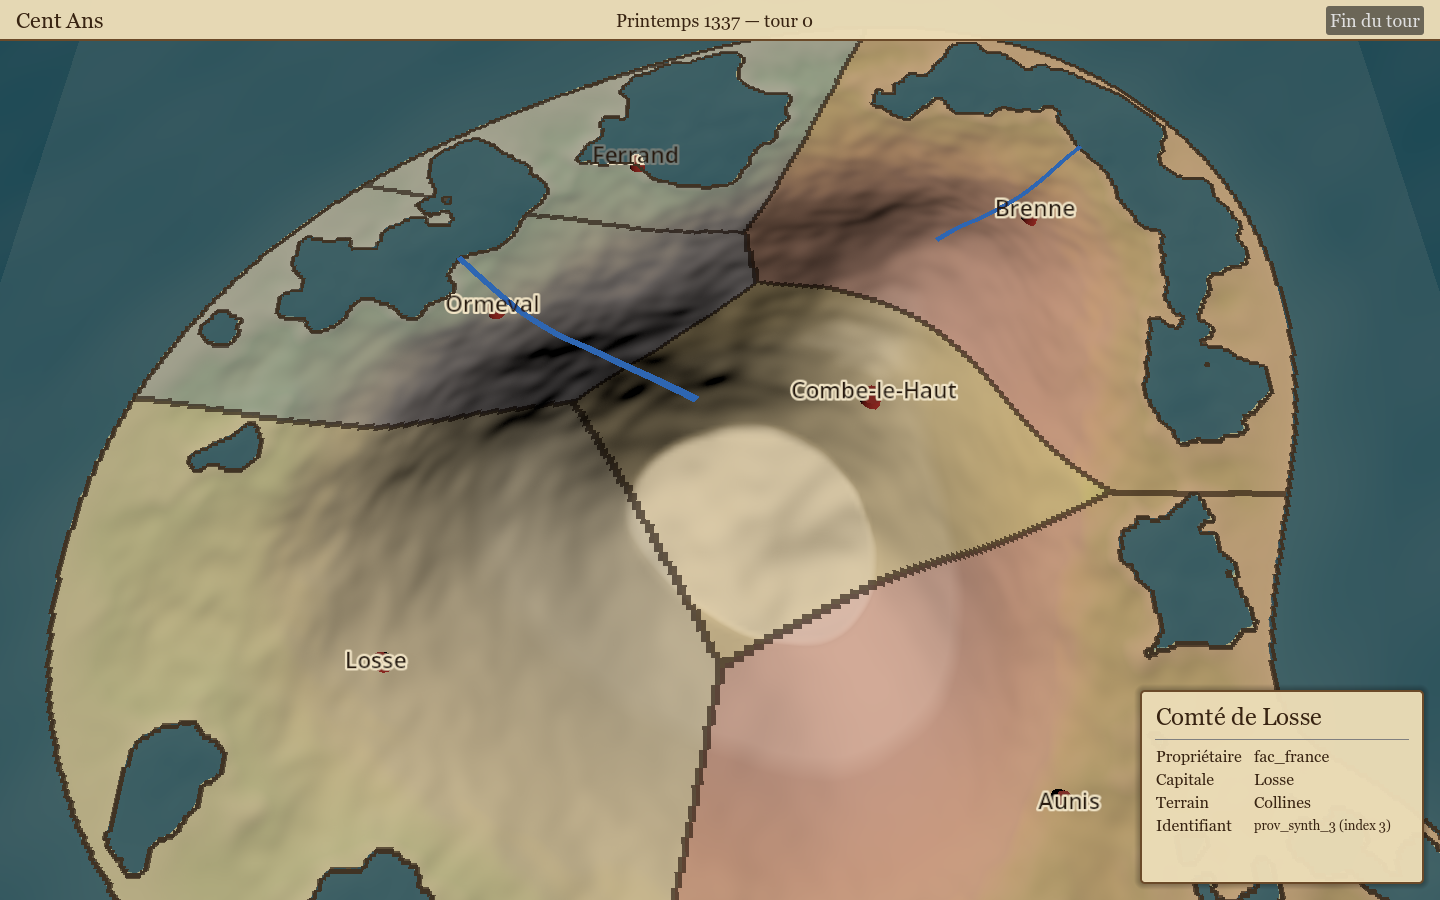
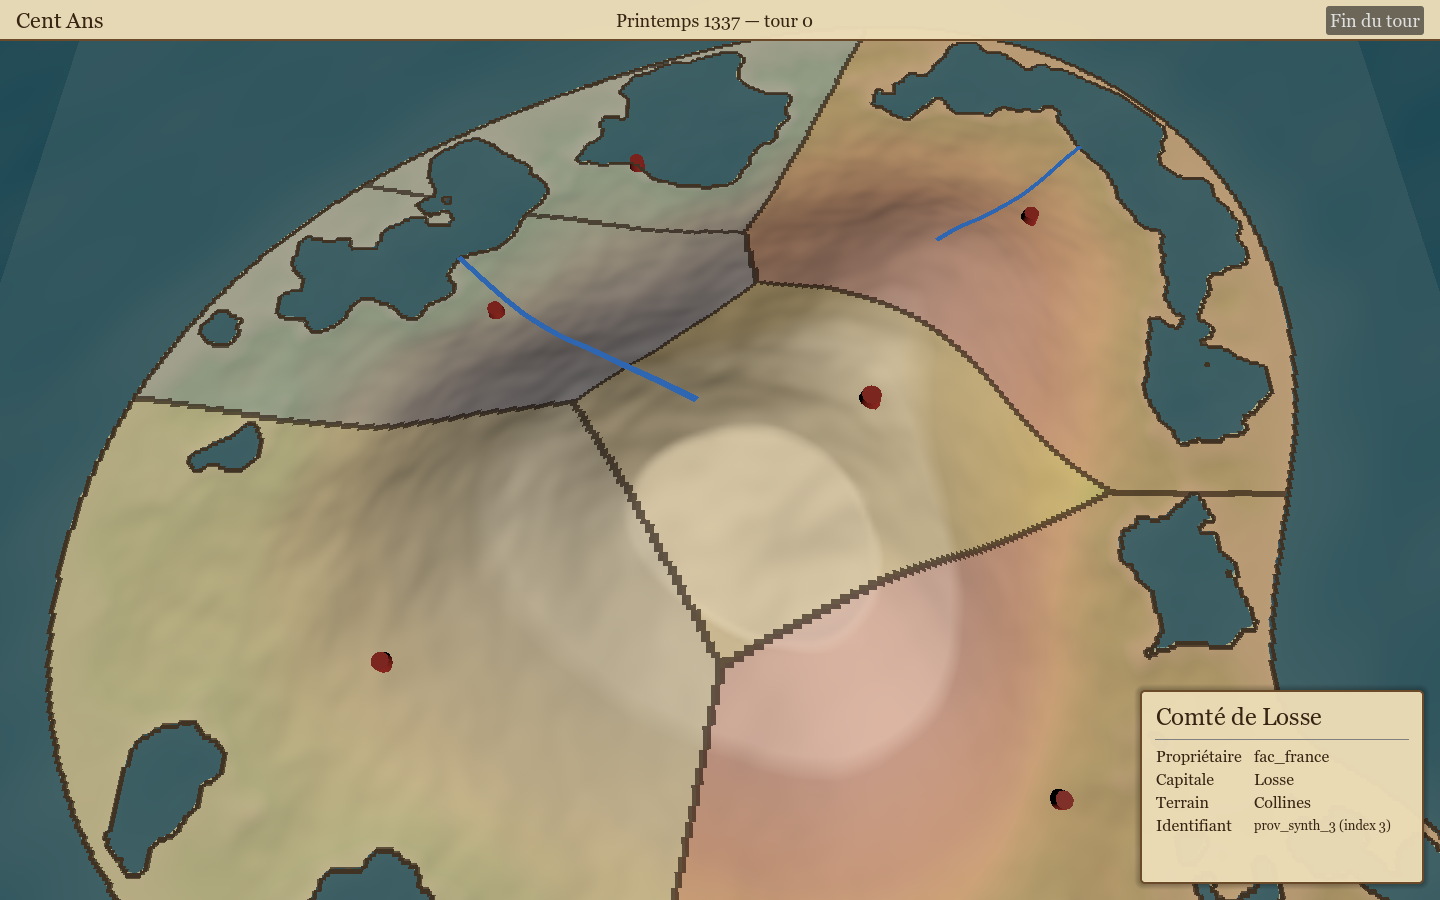
feat(game): river importance from scalerank, zoom-dependent labels and minor rivers, softer relief shading
Verified against the real data/map output (4096², 132 provinces); adds a
real-data screenshot to docs/godot-map.md.

diff --git a/docs/godot-map.md b/docs/godot-map.md
@@ -13,7 +13,7 @@ CampaignMap (Node3D, scripts/map/campaign_map.gd)   assemble tout, gère le cycl
 ├── WorldEnvironment / Sun (DirectionalLight3D)
 ├── Terrain   (TerrainBuilder)   16 × 16 tuiles ArrayMesh depuis la heightmap, 2 LOD
 ├── Sea       (Sea)              plan d'eau Y = 0 (shader animé) + fond opaque à −4,5
-├── Rivers    (RiversRenderer)   rubans bleus (largeur selon Strahler)
+├── Rivers    (RiversRenderer)   rubans bleus (largeur selon importance ; mineurs masqués de loin)
 ├── Coast     (CoastRenderer)    ruban brun sur le trait de côte
 ├── Cities    (CityMarkers)      cylindre + Label3D par capitale (`capital_px`)
 ├── CameraRig (CampaignCamera)   caméra RTS ; enfant Camera3D
@@ -36,7 +36,9 @@ surchargé par la variable d'environnement `CENT_ANS_DATA_DIR` ; `MapPaths.map_d
   est mis en cache dans `user://cache/heightmap_<md5>_<mtime>.u16be` ; les chargements suivants
   prennent quelques millisecondes. Si le PNG n'est pas en 16 bits gris, repli en L8 (avertissement).
 - `province_ids.png` (RGB8, index = R + 256·G, 0 = mer), `land_mask.png` (optionnel).
-- `provinces.geojson`, `rivers.geojson`, `coastline.geojson` via `JSON.parse_string`.
+- `provinces.geojson`, `rivers.geojson`, `coastline.geojson` via `JSON.parse_string`. Importance d'une
+  rivière = `strahler` si présent, sinon `12 − scalerank` (Natural Earth) ; ≥ 3 = fleuve majeur toujours
+  affiché, sinon affiché seulement sous 0,35 × taille de carte.
 - Accès : `height_m_at(x, y)` (bilinéaire), `height_world_at`, `surface_world_at` (≥ 0),
   `province_index_at(x, y)`, `get_province(index)`.
 
@@ -119,6 +121,13 @@ globales une fois : `godot --headless --path game --import` (sinon `class_name` 
 20 000 lectures pick + hauteur : 23 ms. Mémoire résidente ≈ 120 Mo (heightmap LA8 32 Mo +
 ids RGB8 48 Mo + copies CPU).
 
+## Données réelles (`tools/geo`)
+
+Le jeu `data/map/` produit par le pipeline géo se charge tel quel (4096², 132 provinces, 485 rivières,
+289 lignes de côte) : 5,3 s au premier lancement (décodage 16 bits), 0,2 s ensuite.
+
+![Carte réelle](img/godot-real-map.png)
+
 ## Limites connues
 
 - Premier chargement d'une heightmap 16 bits : ~5 s si les lignes PNG sont filtrées (Paeth…),
@@ -128,6 +137,8 @@ ids RGB8 48 Mo + copies CPU).
 - Pas de jupes entre tuiles de LOD différents : petites fissures possibles vues de très près.
 - Rivières et côte sont rendues sans test de profondeur (visibles à travers le relief) ; largeur en
   unités monde, non adaptée au zoom.
+- Le panneau affiche « — » pour capitale et terrain avec les données réelles (propriétés absentes du
+  GeoJSON) : ces champs viendront de `core/` (données `data/provinces/`) en M2.
 - Étiquettes masquées au-delà de 0,35 × taille de carte ; pas de dé-chevauchement.
 - Panneau alimenté par les propriétés GeoJSON ; le vrai propriétaire viendra de `CampaignSim`.
 - macOS arm64 uniquement testé (Metal, Forward+).
